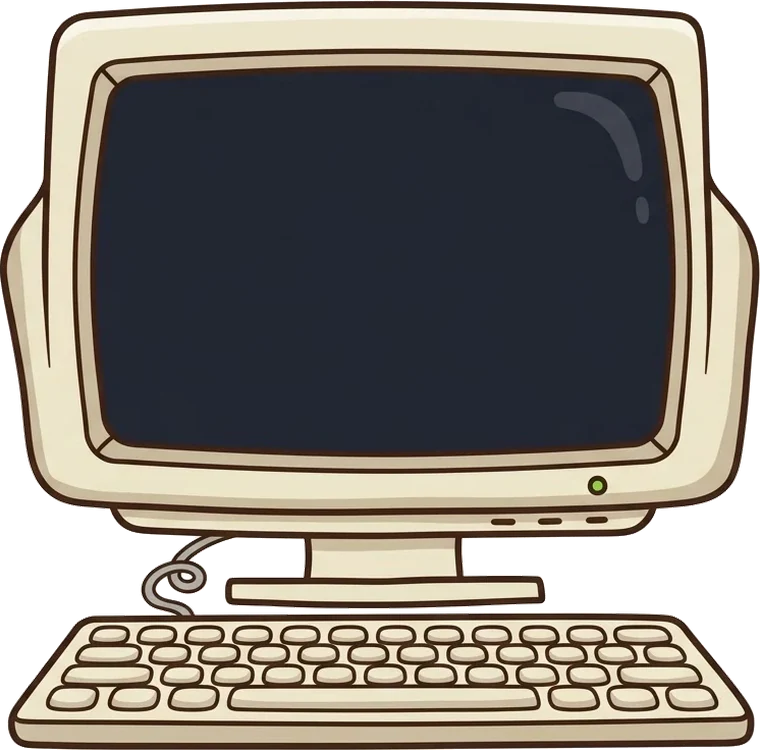
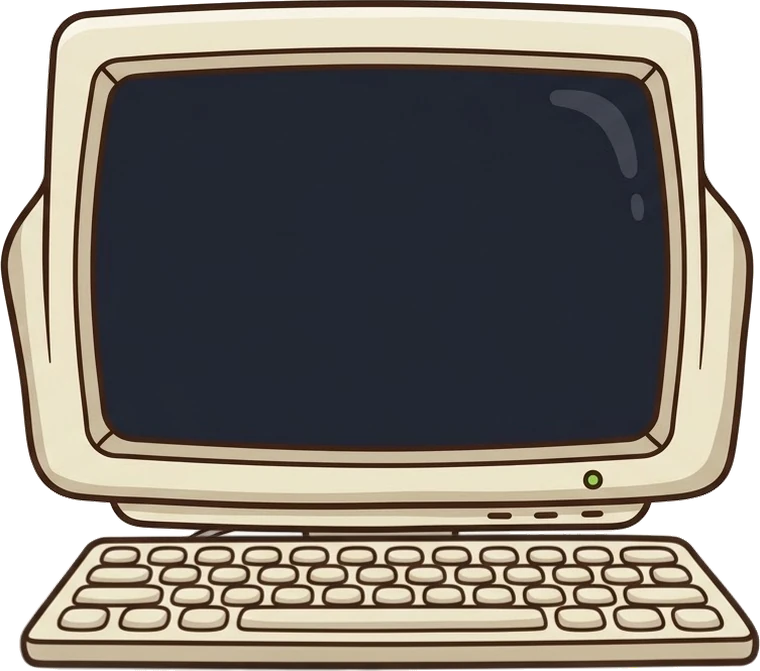
Preview pop-ups for boards and backgrounds; tighter keyboard terminal picture
Claude-Session: https://claude.ai/code/session_01LfmF5cxUUBcpb9MQqZTHNz

diff --git a/index.html b/index.html
@@ -840,6 +840,17 @@
   .fake-ad-body { font-size: 30px; font-weight: 700; text-align: center; padding: 0 24px; }
   .fake-ad-close { width: auto; min-width: 160px; margin: 0; font-family: inherit; font-size: 20px; font-weight: 700; padding: 12px 36px; border: none; border-radius: 12px; background: #7bce5a; color: #123; }
   .fake-ad-close:disabled { opacity: .35; }
+  #cosm-pv-overlay { position: fixed; inset: 0; z-index: 2100; display: flex; align-items: center; justify-content: center; background: rgba(0,0,0,.55); padding: 20px; }
+  .cosm-pv-card { width: 100%; max-width: 340px; box-sizing: border-box; background: #fffaf0; border-radius: 22px; padding: 14px 14px 16px; text-align: center; box-shadow: 0 14px 34px rgba(0,0,0,.4); animation: popIn 240ms cubic-bezier(.34,1.56,.64,1); }
+  .cosm-pv-title { margin: 0 0 10px; font-family: 'Fredoka', sans-serif; font-weight: 700; font-size: 18px; color: #000; text-shadow: none; }
+  .cosm-pv-host { display: flex; width: 100%; }
+  .cosm-pv-host .question-prompt { flex: 1; width: 100%; }
+  .cosm-pv-btns { display: flex; gap: 8px; justify-content: center; margin-top: 12px; }
+  .cosm-pv-btns button { width: auto; margin: 0; padding: 8px 18px; font-family: 'Fredoka', sans-serif; font-weight: 700; font-size: 14px; border: 2px solid #d9c3a3; border-radius: 10px; background: #fff; color: #5a4a3a; }
+  .cosm-pv-bg { position: relative; height: 290px; border-radius: 14px; overflow: hidden; background-size: cover; background-position: center; border: 2px solid #d9c3a3; display: flex; flex-direction: column; justify-content: space-between; padding: 12px; box-sizing: border-box; }
+  .cosm-pv-bg .mk-q { background: url(icons/board-paper.webp) center / 100% 100% no-repeat; padding: 22px 22px 26px; font-family: 'Fredoka', sans-serif; font-weight: 600; font-size: 15px; color: #3a2a1a; }
+  .cosm-pv-bg .mk-row { display: flex; gap: 8px; }
+  .cosm-pv-bg .mk-chip { flex: 1; background: rgba(255,250,240,.95); border-radius: 12px; padding: 10px 6px; font-family: 'Fredoka', sans-serif; font-weight: 700; font-size: 13px; color: #5a4a3a; box-shadow: 0 2px 6px rgba(0,0,0,.25); }
   #fake-purchase-overlay {
     position: fixed; inset: 0; z-index: 2100; display: flex; align-items: center; justify-content: center;
     background: rgba(0,0,0,.55); padding: 20px;
@@ -4072,6 +4083,82 @@
     const now = equippedBackground();
     await update(ref(db, `profiles/${deviceId}`), { "cosmetics/equipped/background": now === id ? "none" : id });
   }
+  // ---- Cosmetics previews: a small pop-up window (not full screen) showing a background, or a question board in action ----
+  function cosmPreviewShell(title, bodyNode) {
+    const ov = document.createElement("div");
+    ov.id = "cosm-pv-overlay";
+    ov.innerHTML = `<div class="cosm-pv-card"><h3 class="cosm-pv-title"></h3><div class="cosm-pv-body"></div><div class="cosm-pv-btns"></div></div>`;
+    ov.querySelector(".cosm-pv-title").textContent = title;
+    ov.querySelector(".cosm-pv-body").appendChild(bodyNode);
+    document.body.appendChild(ov);
+    return ov;
+  }
+  function openBackgroundPreview(id, label) {
+    if (document.getElementById("cosm-pv-overlay")) return;
+    const bg = document.createElement("div");
+    bg.className = "cosm-pv-bg";
+    bg.style.backgroundColor = getComputedStyle(document.body).backgroundColor;
+    if (id !== "none") bg.style.backgroundImage = `url('${backgroundUrl(id)}')`;
+    bg.innerHTML = `<div class="mk-q">How many playing cards long is a canoe?</div><div class="mk-row"><div class="mk-chip">Player 1</div><div class="mk-chip">Player 2</div><div class="mk-chip">Player 3</div></div>`;
+    const ov = cosmPreviewShell(label, bg);
+    const close = document.createElement("button");
+    close.type = "button"; close.textContent = "Close";
+    close.addEventListener("click", () => ov.remove());
+    ov.querySelector(".cosm-pv-btns").appendChild(close);
+    ov.addEventListener("click", (e) => { if (e.target === ov) ov.remove(); });
+  }
+  // The real question card is borrowed for the preview (so every board animates exactly as in a game) and put back on close.
+  function openBoardPreview(id, label) {
+    if (document.getElementById("cosm-pv-overlay")) return;
+    const saved = { parent: qPromptEl.parentNode, next: qPromptEl.nextSibling, txt: questionPromptTextEl.dataset.txt || "",
+      ans: questionAnswerLineEl.innerHTML, ansDisp: questionAnswerLineEl.style.display };
+    const host = document.createElement("div");
+    host.className = "cosm-pv-host";
+    const ov = cosmPreviewShell(label, host);
+    host.appendChild(qPromptEl);
+    const SAMPLE = "How many playing cards long is a canoe?";
+    let token = 0, timers = [];
+    const later = (ms, fn) => { const my = token; timers.push(setTimeout(() => { if (my === token) fn(); }, ms)); };
+    const reset = () => {
+      token++; timers.forEach(clearTimeout); timers = [];
+      qClearing = false;
+      setPromptText("", false);
+      questionAnswerLineEl.style.display = "none"; questionAnswerLineEl.innerHTML = "";
+    };
+    const play = () => {
+      reset();
+      applyBoard(id);
+      later(250, () => setPromptText(SAMPLE, true));
+      later(3400, () => {
+        const t0 = performance.now(), target = 54.23;
+        const step = () => {
+          const k = Math.min(1, (performance.now() - t0) / 1600), e = 1 - Math.pow(1 - k, 3);
+          setAnswerLineValue((target * e).toFixed(2));
+          if (k < 1) later(60, step);
+        };
+        step();
+      });
+      later(7000, () => clearBoard());
+      later(9800, play);
+    };
+    const replay = document.createElement("button");
+    replay.type = "button"; replay.textContent = "Replay";
+    replay.addEventListener("click", play);
+    const close = document.createElement("button");
+    close.type = "button"; close.textContent = "Close";
+    const done = () => {
+      reset();
+      saved.parent.insertBefore(qPromptEl, saved.next);
+      applyBoard(equippedBoard());
+      if (saved.txt) { setPromptText(saved.txt, false); questionAnswerLineEl.innerHTML = saved.ans; questionAnswerLineEl.style.display = saved.ansDisp; }
+      ov.remove();
+    };
+    close.addEventListener("click", done);
+    ov.addEventListener("click", (e) => { if (e.target === ov) done(); });
+    const btns = ov.querySelector(".cosm-pv-btns");
+    btns.appendChild(replay); btns.appendChild(close);
+    play();
+  }
   function renderBackgroundRows(container) {
     if (!container) return;
     const equipped = equippedBackground();
@@ -4082,7 +4169,7 @@
     container.appendChild(label);
     container.appendChild(cosmRow({
       leadHtml: `<span class="cosm-bg-pic cosm-bg-none"></span>`, name: "Plain", owned: true, free: true, cost: 0,
-      equipped: equipped === "none", onEquip: () => equipBackground(equipped),
+      equipped: equipped === "none", onPreview: () => openBackgroundPreview("none", "Plain"), onEquip: () => equipBackground(equipped),
     }));
     BACKGROUND_PACK_CATALOG.forEach((pack) => {
       const owned = !!(myProfile.backgroundPacks || {})[pack.id] || pack.backgrounds.every((b) => ownsBackground(b.id));
@@ -4094,7 +4181,7 @@
       pack.backgrounds.forEach((b) => container.appendChild(cosmRow({
         leadHtml: `<img class="cosm-bg-pic" src="${backgroundUrl(b.id)}" alt="" loading="lazy">`, name: b.label,
         owned: ownsBackground(b.id), free: false, cost: BACKGROUND_COIN_COST, equipped: equipped === b.id,
-        onEquip: () => equipBackground(b.id), onBuy: () => buyBackgroundWithCoins(b),
+        onPreview: () => openBackgroundPreview(b.id, b.label), onEquip: () => equipBackground(b.id), onBuy: () => buyBackgroundWithCoins(b),
       })));
     });
   }
@@ -4164,7 +4251,7 @@
     container.appendChild(label);
     container.appendChild(cosmRow({
       leadHtml: `<img class="cosm-board-pic" src="${BOARD_PIC.paper}" alt="">`, name: "Paper and pencil", owned: true, free: true, cost: 0,
-      equipped: equipped === "none", onEquip: () => equipBoard(equipped),
+      equipped: equipped === "none", onPreview: () => openBoardPreview("paper", "Paper and pencil"), onEquip: () => equipBoard(equipped),
     }));
     BOARD_PACK_CATALOG.forEach((pack) => {
       const owned = !!(myProfile.boardPacks || {})[pack.id] || pack.boards.every((b) => ownsBoard(b.id));
@@ -4175,7 +4262,7 @@
       pack.boards.forEach((b) => container.appendChild(cosmRow({
         leadHtml: `<img class="cosm-board-pic" src="${BOARD_PIC[b.id]}" alt="" loading="lazy">`, name: b.label,
         owned: ownsBoard(b.id), free: false, cost: BOARD_COIN_COST, equipped: equipped === b.id,
-        onEquip: () => equipBoard(b.id), onBuy: () => buyBoardWithCoins(b),
+        onPreview: () => openBoardPreview(b.id, b.label), onEquip: () => equipBoard(b.id), onBuy: () => buyBoardWithCoins(b),
       })));
     });
   }
@@ -5458,7 +5545,7 @@
   qBodyEl.appendChild(questionPromptTextEl);
   qBodyEl.appendChild(questionAnswerLineEl);
   const SB_DEFS = {
-    terminal: { img: "icons/bd-terminal-kb.webp", ar: 746 / 736, box: [14, 11, 14, 42] },
+    terminal: { img: "icons/bd-terminal-kb.webp", ar: 760 / 671, box: [14, 11.5, 14, 35.5] },
     tv: { img: "icons/bd-tv-dark.webp", ar: 760 / 667, box: [14.5, 35, 19.5, 17.5], fmax: 23 },
     typewriter: { img: "icons/bd-typewriter.webp", ar: 760 / 702, box: [22.9, 4, 22.8, 33.6] },
     letterboard: { img: "icons/bd-letterboard.webp", ar: 760 / 574, box: [9, 12, 9, 14], fmax: 25 },
